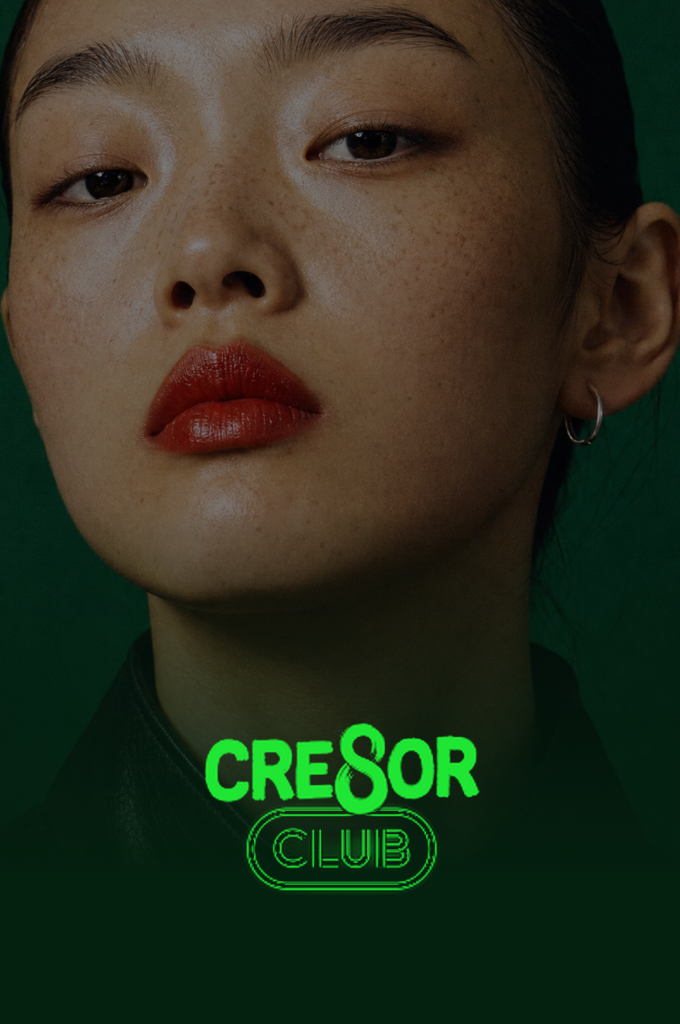
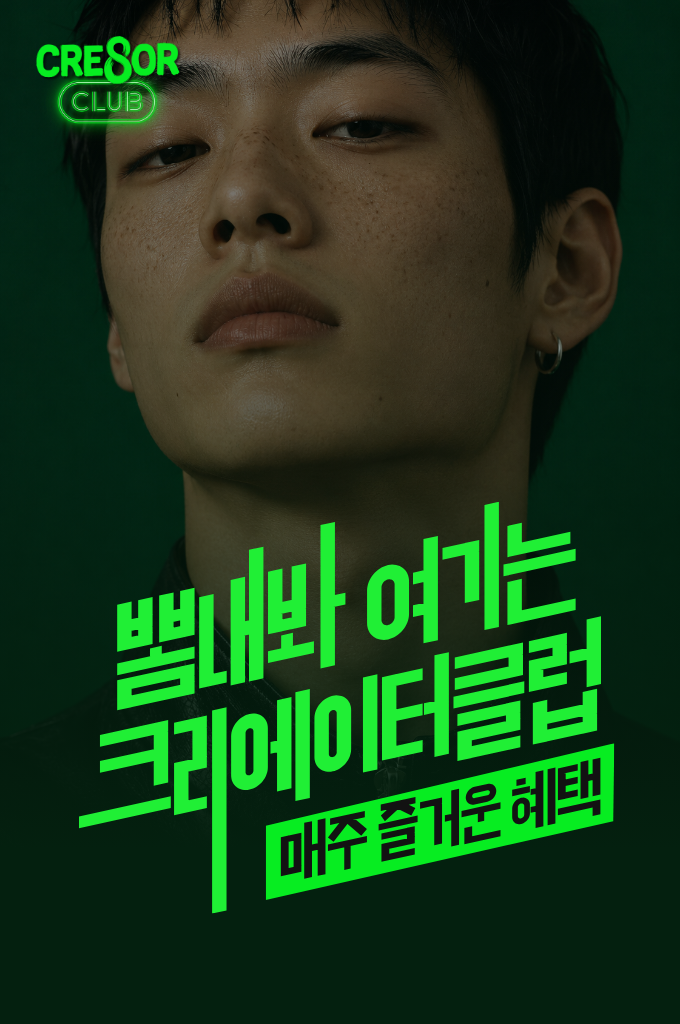
Deploy c8-openchat-prep-v1-261106 → public-pages/ (redeploy, 2026-11-07)

diff --git a/c8-openchat-prep-v1-261106/index.html b/c8-openchat-prep-v1-261106/index.html
@@ -45,12 +45,14 @@ a{color:#161616}
 · 다른 서비스 홍보 글은 말없이 내릴 수 있어요</pre>
 <p><small>신청서 주소가 아직 없어서 비워 뒀어요. 생기면 둘째 줄 끝에 붙여요.</small></p>
 
-<h2>커버</h2>
+<h2>커버 (이벤트 그림 남자판)</h2>
 <div class="imgs">
 <figure><img src="img/cover.png" alt="커버 680×1024"><figcaption>방 커버 680×1024</figcaption></figure>
 <figure><img src="img/square.png" alt="정사각 640"><figcaption>방장 프로필 640×640</figcaption></figure>
 </div>
-<p>위클리베스트 이벤트 그림과 실제 로고로 만들었어요. 회의에서는 AI로 만든다고 했는데, 그러면 로고 모양이 앱 화면과 달라져서 실제 로고를 썼어요.</p>
+<figure style="margin:12px 0 0"><img src="img/wide.png" alt="가로 2400×1200" style="width:100%;border-radius:10px"><figcaption>이벤트 공유 그림과 같은 가로판 2400×1200</figcaption></figure>
+<p>이벤트 페이지의 여자 사진과 같은 포즈·조명·재킷으로 남자 사진을 AI로 새로 만들었어요. 글씨(「뽐내봐 여기는 크리에이터클럽 · 매주 즐거운 혜택」)와 로고는 이벤트 페이지 원본 파일을 그대로 얹었어요.</p>
+<p><small>AI티 점검표로 봤어요: 손 없음, 글자는 생성하지 않고 원본을 얹음, 귀·귀걸이·지퍼 200% 확대에서 뭉개짐 없음, 피부 결 살아 있음. 실제 인물이 아니라 가상 인물이에요.</small></p>
 
 <h2>확인 못 한 것</h2>
 <ul>
